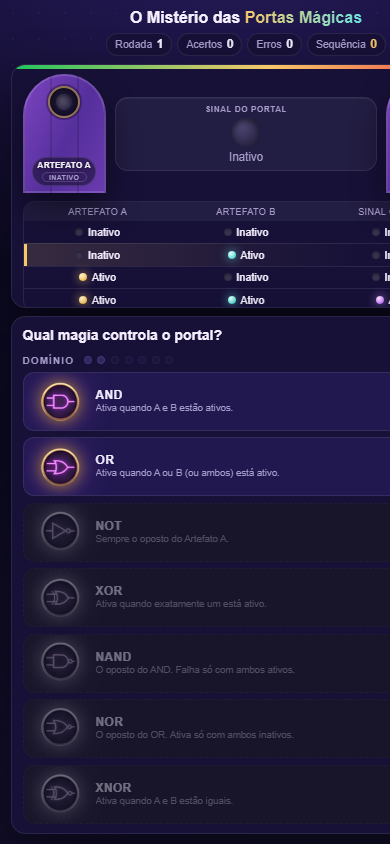
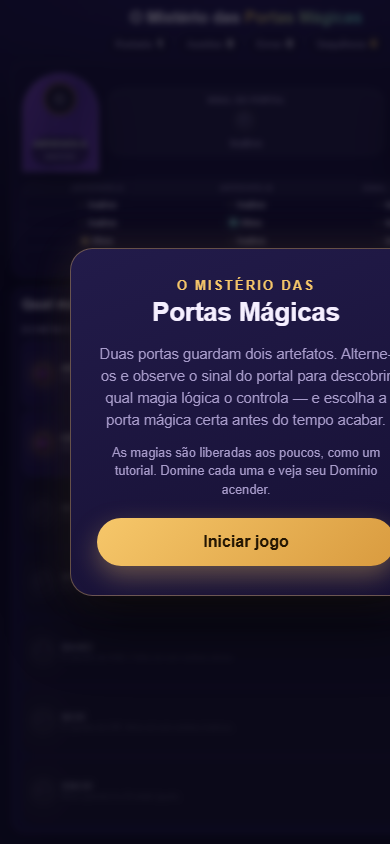
Melhora responsividade

diff --git a/style.css b/style.css
@@ -1562,9 +1562,19 @@ body::after {
 
   /* Cards */
   .card {
-    margin-top: 0.5rem;
-    padding: 0.6rem 0.65rem;
+    margin-top: 0.45rem;
+    padding: 0.55rem 0.6rem;
     border-radius: 0.9rem;
+  }
+
+  /* Palco fixo: a tabela nunca é cortada */
+  .card.stage {
+    flex: 0 0 auto;
+  }
+
+  .card.magic-card {
+    flex: 1 1 auto;
+    min-height: 3rem;
   }
 
   /* Portas + tabela juntas, sem abas */
@@ -1588,8 +1598,8 @@ body::after {
   }
 
   .door-holder {
-    width: clamp(4.2rem, 24vw, 5.2rem);
-    height: clamp(6.2rem, 34vw, 7.4rem);
+    width: clamp(3.9rem, 22vw, 4.8rem);
+    height: clamp(5.2rem, 29vw, 6.2rem);
   }
 
   .doorway {
@@ -1635,23 +1645,23 @@ body::after {
   .signal {
     flex: 1;
     min-width: 0;
-    gap: 0.25rem;
-    padding: 0.45rem 0.3rem;
+    gap: 0.2rem;
+    padding: 0.35rem 0.3rem;
     border-radius: 0.8rem;
   }
 
   .signal__label {
-    font-size: 0.5rem;
+    font-size: 0.48rem;
     letter-spacing: 0.08em;
   }
 
   .signal__orb {
-    width: clamp(1.5rem, 8vw, 1.8rem);
-    height: clamp(1.5rem, 8vw, 1.8rem);
+    width: clamp(1.3rem, 7vw, 1.6rem);
+    height: clamp(1.3rem, 7vw, 1.6rem);
   }
 
   .signal__text {
-    font-size: 0.72rem;
+    font-size: 0.68rem;
   }
 
   .hint {
@@ -1673,25 +1683,30 @@ body::after {
 
   .truth-head,
   .truth-cell {
-    padding: 0.3rem 0.3rem;
+    padding: 0.18rem 0.3rem;
     justify-content: center;
   }
 
   .truth-head {
     display: block;
     text-align: center;
-    font-size: 0.56rem;
+    font-size: 0.5rem;
     letter-spacing: 0.05em;
   }
 
   .truth-cell {
-    gap: 0.28rem;
-    font-size: 0.68rem;
+    gap: 0.2rem;
+    font-size: 0.6rem;
+    line-height: 1.2;
+  }
+
+  .truth-row.current {
+    outline-offset: -2px;
   }
 
   .dot {
-    width: 0.5rem;
-    height: 0.5rem;
+    width: 0.42rem;
+    height: 0.42rem;
   }
 
   /* Magias: lista vertical comprimida (cabe em uma tela) */
@@ -1752,7 +1767,7 @@ body::after {
     min-height: 0;
     display: flex;
     flex-direction: column;
-    gap: 0.4rem;
+    gap: 0.2rem;
     overflow-y: auto;
     -webkit-overflow-scrolling: touch;
   }
@@ -1760,18 +1775,24 @@ body::after {
   .magic-option {
     flex-direction: row;
     align-items: center;
-    gap: 0.6rem;
+    gap: 0.4rem;
     flex: 1 1 auto;
-    min-height: 0;
-    padding: 0.3rem 0.65rem;
-    border-radius: 0.7rem;
+    min-height: 26px;
+    padding: 0.15rem 0.5rem;
+    border-radius: 0.65rem;
     overflow: hidden;
   }
 
   .magic-sym {
-    width: 1.9rem;
-    height: 1.9rem;
-    font-size: 1.05rem;
+    width: 1.6rem;
+    height: 1.6rem;
+    font-size: 0.9rem;
+  }
+
+  .magic-icon-img {
+    width: 24px;
+    height: 24px;
+    flex-shrink: 1;
   }
 
   .magic-info {
@@ -1782,7 +1803,7 @@ body::after {
   }
 
   .magic-name {
-    font-size: 0.78rem;
+    font-size: 0.68rem;
     white-space: nowrap;
   }
 
@@ -1795,13 +1816,13 @@ body::after {
     white-space: nowrap;
     overflow: hidden;
     text-overflow: ellipsis;
-    font-size: 0.6rem;
-    line-height: 1.3;
+    font-size: 0.52rem;
+    line-height: 1.2;
   }
 
   .magic-arrow {
     display: inline-flex;
-    font-size: 1rem;
+    font-size: 0.85rem;
   }
 
   .magic-card.has-result .magic-actions {
